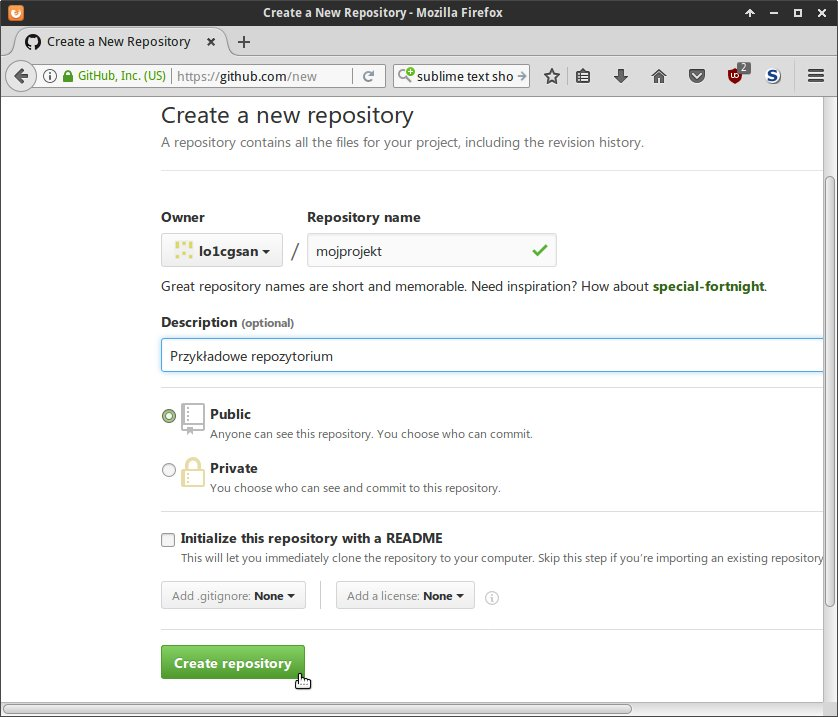
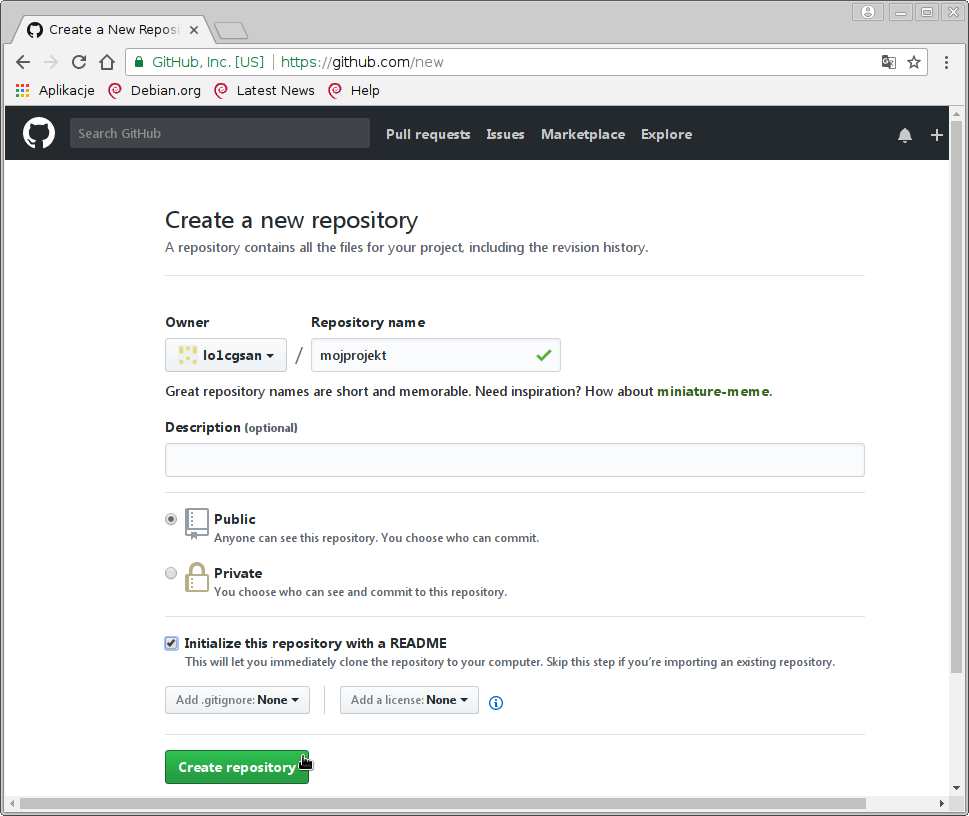
Zmiana logiki scenariusza Git, repo zdalne + klonowanie

Changed region(s): [[0.0, 0.0, 1.0, 1.0], [0.7136, 0.3682, 0.8998, 0.4296]]

diff --git a/docs/tools/git/index.rst b/docs/tools/git/index.rst
@@ -13,14 +13,14 @@ Repozytorium zdalne
 ====================
 
 Przede wszystkim wchodzimy na stronę  `<https://github.com/>`_ i zakładamy konto podając:
-nazwę użytkownika, email i hasło. Następnie dodajemy pierwsze puste repozytorium.
+nazwę użytkownika, email i hasło. Następnie tworzymy nowe repozytorium.
 Możemy postępować wg poniższych instrukcji:
 
 *   Krok 1 – `założenie konta <https://help.github.com/articles/signing-up-for-a-new-github-account/>`_;
     podajemy nazwę użytkownika, adres email i hasło, jako typ konta wybieramy *free*.
 *   Krok 2 – `weryfikacja adresu e-mail <https://help.github.com/articles/verifying-your-email-address/>`_
 *   Krok 3 – `zakładamy repozytorium <https://help.github.com/articles/create-a-repo/>`_ dla projektu,
-    wybieramy typ *Public* (publiczne)
+    wybieramy typ *Public* (publiczne) i zaznaczamy "Initialize this repository with a README"
 
 .. figure:: img/git_repo01.jpg
 
@@ -28,11 +28,7 @@ Możemy postępować wg poniższych instrukcji:
 
 .. figure:: img/git_repo03.jpg
 
-
-.. tip::
-
-    Nie zamykaj powyższej strony! Będzie potrzebna za chwilę.
-
+W ten sposób założyliśmy repozytorium zdalne.
 
 Klient Gita
 ===========
@@ -103,7 +99,8 @@ określa sposób synchronizowania repozytorium lokalnego ze zdalnym.
 
 .. tip::
 
-    W Windows warto ustawić jeszcze jedną opcję: ``git config --global core.autocrlf true``.
+    W Windows można ustawić opcję: ``git config --global core.autocrlf true``,
+    jeśli nie wyświetliła się w podglądzie konfiguracji.
     Dzięki temu Git będzie automatycznie konwertował znaki końca linii, o czym informują
     komunikaty typu *LF will be replaced by CRLF*.
 
@@ -112,19 +109,29 @@ określa sposób synchronizowania repozytorium lokalnego ze zdalnym.
    Początek pracy z Gitem w Git-Bash pod Windows
 
 
-Repozytorium lokalne
-====================
+Klonowanie repozytorium
+=======================
 
-Repozytorium lokalne utworzymy od podstaw, a później połączymy go ze zdalnym.
-Na początku tworzymy katalog projektu i wchodzimy do niego:
+Repozytorium lokalne można tworzyć od podstaw (zob. dalej),
+ale jeżeli utworzyliśmy repozytorium w zdalne w serwisie GitHub
+najprościej jest je sklonować.
+
+W terminalu wydajemy polecenie:
 
 .. code-block:: bash
 
-    ~$ mkdir mojprojekt; cd mojprojekt
-    ~/mojprojekt$ git init
+    ~$ git clone https://github.com/nazwa_użytkownika/nazwa_repozytorium.git [nazwa_katalogu]
 
-Polecenie ``git init`` tworzy repozytorium w ukrytym katalogu :file:`.git`.
-Położenie i nazwa katalogu, w którym tworzymy repozytorium są dowolne.
+Najważniejszy jest argument *Git URL*, czyli schematyczny adres repozytorium,
+który kopiujemy ze strony głównej repozytorium po kliknięciu w przycisk "Clone or download":
+
+.. figure:: img/git_clone.jpg
+
+
+W rezultacie w bieżącym katalogu utworzony zostanie katalog o nazwie repozytorium
+lub o nazwie podanej w opcjonalnym argumencie `[nazwa_katalogu]`.
+
+W ten sposób utworzyliśmy **repozytorium lokalne**.
 
 Stany plików
 ============
@@ -160,9 +167,9 @@ Przećwiczymy to wydając polecenia:
 
 .. code-block:: bash
 
-    ~/mojprojekt$ echo "Moje pierwsze repozytorium" > README.md
+    ~/mojprojekt$ echo "Moje pierwsze repozytorium" > repo.txt
     ~/mojprojekt$ git status
-    ~/mojprojekt$ git add README.md
+    ~/mojprojekt$ git add repo.txt
     ~/mojprojekt$ git status
     ~/mojprojekt$ git commit -m "Opis projektu"
 
@@ -172,70 +179,7 @@ Przećwiczymy to wydając polecenia:
     opcja ``-m``. Jeżeli ją pominiemy, Git otworzy domyślny edytor,
     w którym należy zmiany opisać.
 
-
 .. figure:: img/git_init.jpg
-
-
-Master i origin
-===============
-
-Repozytorium lokalne połączymy i zsynchronizujemy ze zdalnym, które utworzyliśmy wcześniej.
-Wracamy do przeglądarki, na stronę nowo utworzonego repozytorium zdalnego.
-Kopiujemy, wklejamy i wykonujemy w terminalu polecenia sugerowane przez Gita:
-
-.. code-block:: bash
-
-    ~/mojprojekt$ git remote add origin https://github.com/nazwa_konta/mojprojekt.git
-    ~/mojprojekt$ git push -u origin master
-
-* ``git remote add`` – dodaje zdalne repozytorium określone przez *Git URL* do lokalnego;
-* ``git push`` – synchronizuje zawartość lokalnego repozytorium ze zdalnym. o domyślnej nazwie ``origin``.
-
-
-.. figure:: img/git_remote.jpg
-
-
-.. note::
-
-    Nazwa **master** jest domyślną gałęzią Gita tworzoną podczas inicjacji repozytorium.
-    Technicznie jest to wskaźnik odnoszący się do ostatniej zatwierdzonej migawki.
-    Po synchronizacji repozytoriów lokalna gałąź *master* zaczyna śledzić zdalną o takiej samej nazwie.
-
-    Nazwa **origin** to domyślne określenie repozytorium zdalnego.
-
-
-Klonowanie repozytorium
-=======================
-
-Dotychczasowe repozytorium lokalne usuniemy, aby utworzyć je ponownie
-za pomocą klonowania.
-
-.. warning::
-
-    **Sprawdź** w przeglądarce, czy zawartość repozytorium zdalnego odpowiada lokalnemu.
-    Jeżeli tak, usuń katalog :file:`mojprojekt` za pomocą menedżera plików lub poleceń:
-
-    .. code-block:: bash
-
-        ~/mojprojekt$ cd ..
-        ~$ rm -rf ~/mojprojekt
-
-
-W terminalu wydajemy polecenie:
-
-.. code-block:: bash
-
-    ~$ git clone https://github.com/nazwa_użytkownika/nazwa_repozytorium.git [nazwa_katalogu]
-
-Najważniejszy jest argument *Git URL*, czyli schematyczny adres repozytorium,
-który możemy pobrać na stronie głównej repozytorium po kliknięciu w przycisk "Clone or download":
-
-.. figure:: img/git_clone.jpg
-
-
-W rezultacie w bieżącym katalogu utworzony zostanie katalog o nazwie repozytorium
-lub o nazwie podanej w opcjonalnym argumencie `[nazwa_katalogu]`.
-
 
 Zmiany zdalne
 =============
@@ -275,7 +219,7 @@ Zmiany lokalne
 ==============
 
 Praca w repozytorium lokalnym jest najwygodniejsza. Przećwiczmy typowe sytuacje.
-Zmienimy treść pliku :file:`README.md` i utworzymy plik :file:`drugi.txt`:
+Zmienimy treść pliku :file:`README.md` i utworzymy plik :file:`drugi.txt`.
 
 .. code-block:: bash
 
@@ -611,6 +555,42 @@ listę ignorowanych plików za pomocą wyrażeń wieloznacznych zapisanych w ukr
 
 * :download:`Przykładowa zawartość <gitignore.txt>` pliku :file:`.gitignore`.
 * `Wzorce dla różnych języków programowania <https://github.com/github/gitignore>`_.
+
+Informacje dodatkowe
+====================
+
+Możliwe jest utworzenie repozytorium lokalnego nie przez klonowanie,
+ale od podstaw. Na początku tworzymy katalog projektu i wchodzimy do niego:
+
+.. code-block:: bash
+
+    ~$ mkdir mojprojekt; cd mojprojekt
+    ~/mojprojekt$ git init
+
+- ``git init`` – polecenie tworzy ukryty katalog :file:`.git`, czyli repozytorium.
+
+Położenie i nazwa katalogu, w którym tworzymy repozytorium są dowolne.
+
+Repozytorium lokalne należy połączyć i zsynchronizować ze zdalnym,
+które musi być utworzone w serwisie GitHub. W terminalu wydajemy polecenia:
+
+.. code-block:: bash
+
+    ~/mojprojekt$ git remote add origin https://github.com/nazwa_konta/mojprojekt.git
+    ~/mojprojekt$ git push -u origin master
+
+* ``git remote add`` – dodaje zdalne repozytorium określone przez *Git URL* do lokalnego;
+* ``git push`` – synchronizuje zawartość lokalnego repozytorium ze zdalnym. o domyślnej nazwie ``origin``.
+
+.. figure:: img/git_remote.jpg
+
+.. note::
+
+    Nazwa **master** jest domyślną gałęzią Gita tworzoną podczas inicjacji repozytorium.
+    Technicznie jest to wskaźnik odnoszący się do ostatniej zatwierdzonej migawki.
+    Po synchronizacji repozytoriów lokalna gałąź *master* zaczyna śledzić zdalną o takiej samej nazwie.
+
+    Nazwa **origin** to domyślne określenie repozytorium zdalnego.
 
 Cheat Sheet
 ===========
